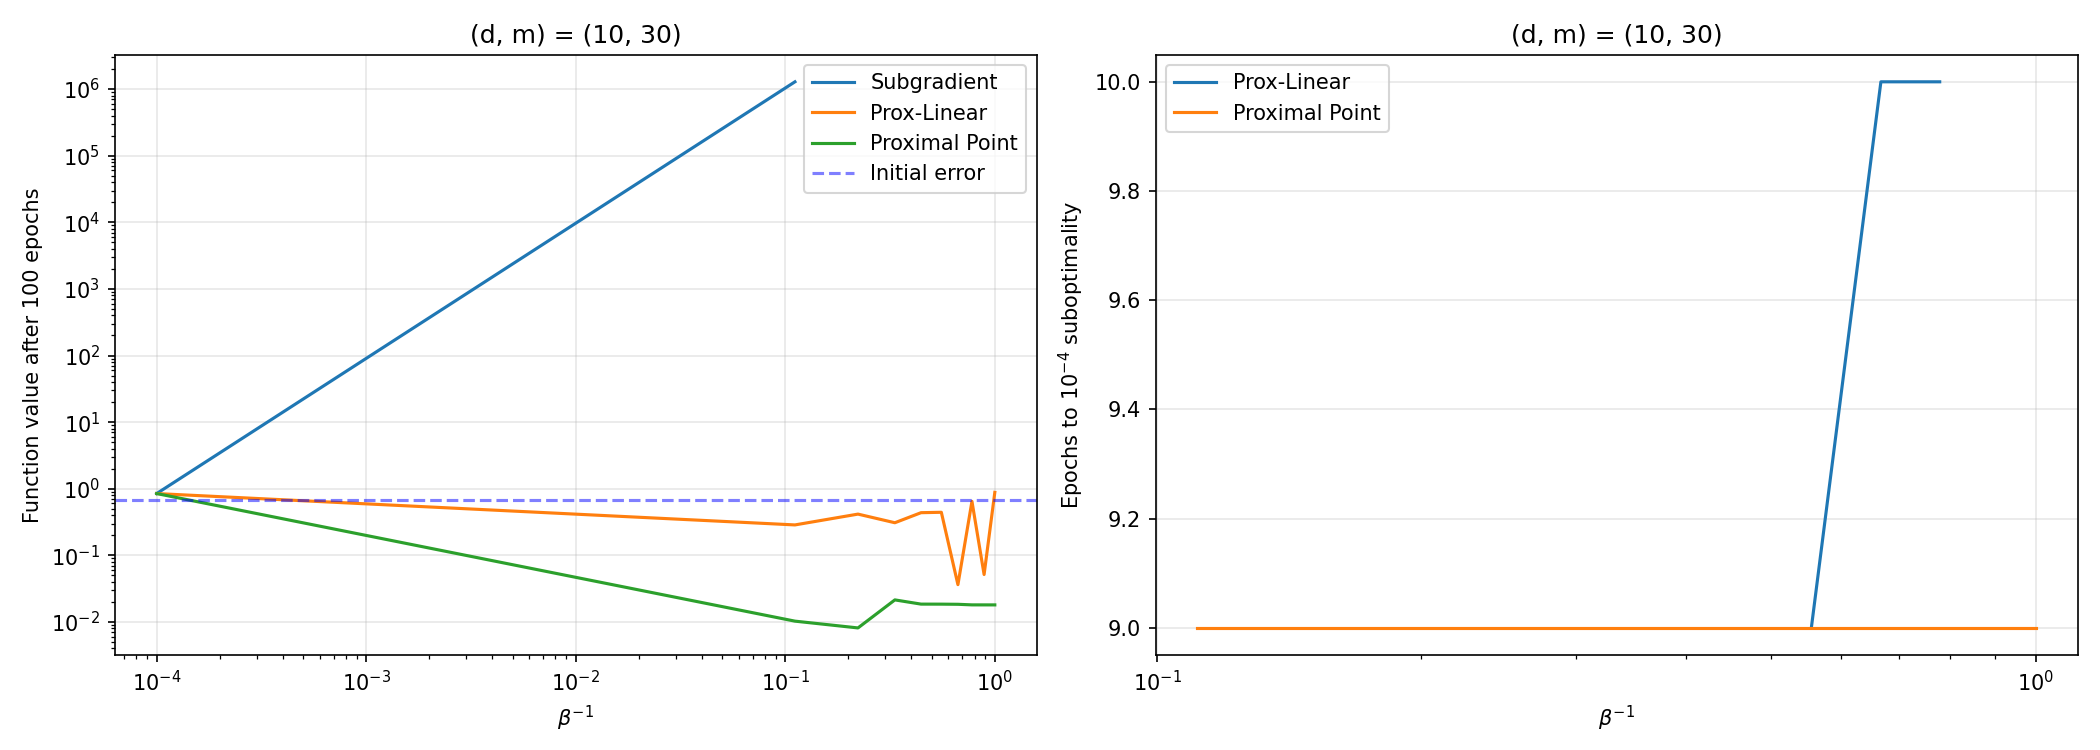
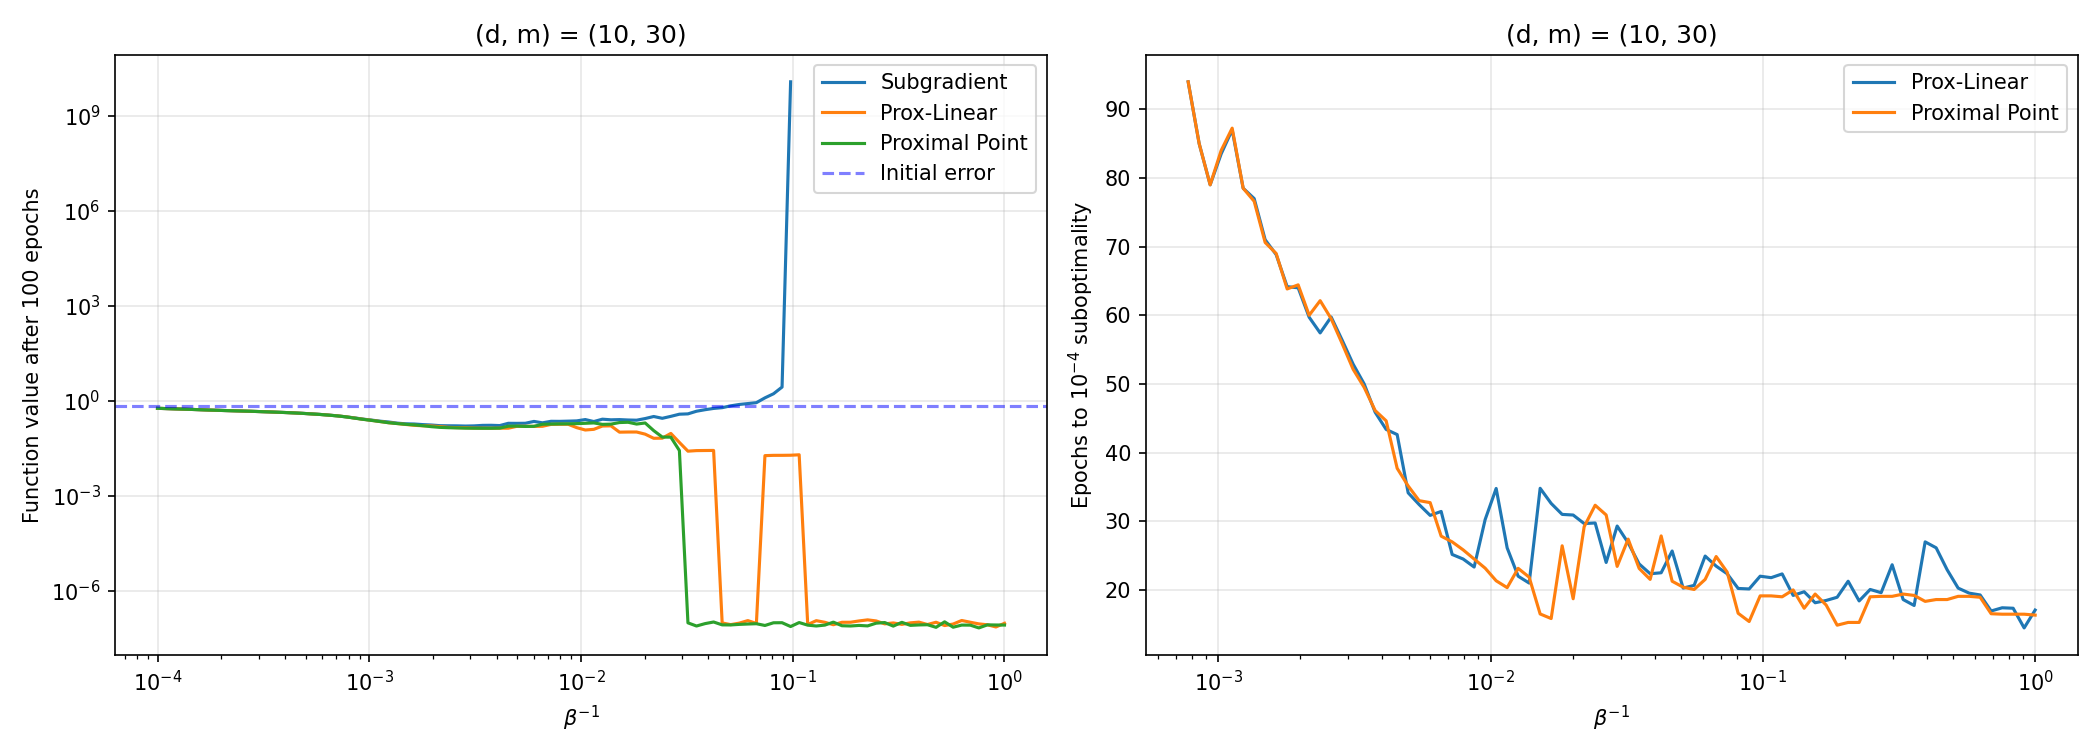
feat: add experiments for Moreau envelope gradient convergence and update beta scheduling

diff --git a/experiments/moreau_convergence.py b/experiments/moreau_convergence.py
@@ -1,0 +1,203 @@
+"""
+Experiment 4: Moreau Envelope Gradient Convergence
+
+Tracks ||∇φ_λ(x_t)|| over epochs for each of the three stochastic
+model-based methods on the phase retrieval problem.
+
+This demonstrates the paper's main convergence guarantee: the Moreau
+envelope gradient norm tends to zero, confirming that iterates approach
+near-stationarity (Theorems 4.2, 4.5, 4.8).
+"""
+
+import torch
+import numpy as np
+import matplotlib.pyplot as plt
+import os
+import sys
+
+sys.path.insert(0, os.path.join(os.path.dirname(__file__), ".."))
+
+from src.ModelBasedSolver import ModelBasedSolver
+from src.problems.phase_retrieval import (
+    SubgradientPhaseRetrieval,
+    ProxLinearPhaseRetrieval,
+    ProximalPointPhaseRetrieval,
+)
+
+
+def generate_phase_retrieval_data(d, m, seed=0):
+    torch.manual_seed(seed)
+    true_x = torch.randn(d)
+    true_x = true_x / torch.norm(true_x)
+    a_matrix = torch.randn(m, d)
+    b_vector = (a_matrix @ true_x) ** 2
+    population_data = torch.cat([a_matrix, b_vector.unsqueeze(1)], dim=1)
+    return population_data, true_x
+
+
+def run_single(prob, data, d, beta, n_epochs, m, moreau_epoch_interval, seed):
+    """Run one trial, tracking Moreau gradient norm at regular epoch intervals."""
+    torch.manual_seed(seed)
+    x_init = torch.randn(d)
+    x_init = x_init / torch.norm(x_init)
+
+    T = n_epochs * m
+    log_every = m  # log once per epoch
+    moreau_every = moreau_epoch_interval * m  # compute Moreau every N epochs
+
+    solver = ModelBasedSolver(
+        problem=prob,
+        data=data,
+        x_init=x_init,
+        T=T,
+        batch_size=1,
+        beta=beta,
+        log_every=log_every,
+        moreau_every=moreau_every,
+        verbose=False,
+    )
+    solver.run()
+
+    return solver.history
+
+
+def run_moreau_experiment(
+    d=50,
+    m=150,
+    beta_inv=0.1,
+    n_epochs=100,
+    moreau_epoch_interval=5,
+    n_rounds=5,
+    data_seed=42,
+):
+    """Run all 3 methods, averaging Moreau gradient norms over rounds."""
+    print(f"\n{'='*60}")
+    print(f"  Moreau Envelope Convergence: d={d}, m={m}, β⁻¹={beta_inv}")
+    print(
+        f"  {n_epochs} epochs, Moreau every {moreau_epoch_interval} epochs, {n_rounds} rounds"
+    )
+    print(f"{'='*60}")
+
+    data, true_x = generate_phase_retrieval_data(d, m, seed=data_seed)
+    beta = 1.0 / beta_inv
+
+    method_classes = {
+        "Subgradient": SubgradientPhaseRetrieval,
+        "Prox-Linear": ProxLinearPhaseRetrieval,
+        "Proximal Point": ProximalPointPhaseRetrieval,
+    }
+
+    results = {}
+
+    for name, cls in method_classes.items():
+        prob = cls(rho=2.0)
+        all_moreau = []
+        all_obj = []
+
+        for r in range(n_rounds):
+            history = run_single(
+                prob,
+                data,
+                d,
+                beta,
+                n_epochs,
+                m,
+                moreau_epoch_interval,
+                seed=r,
+            )
+            # moreau_grad_norms is list of (iteration, value) tuples
+            moreau_pairs = history["moreau_grad_norms"]
+            moreau_epochs = [it / m for it, _ in moreau_pairs]
+            moreau_vals = [val for _, val in moreau_pairs]
+            all_moreau.append(moreau_vals)
+
+            all_obj.append(history["obj_values"])
+            print(f"  {name} round {r+1}/{n_rounds} done")
+
+        # Average over rounds (trim to shortest)
+        min_len_m = min(len(x) for x in all_moreau)
+        avg_moreau = np.mean([x[:min_len_m] for x in all_moreau], axis=0)
+
+        min_len_o = min(len(x) for x in all_obj)
+        avg_obj = np.mean([x[:min_len_o] for x in all_obj], axis=0)
+
+        results[name] = {
+            "moreau_epochs": moreau_epochs[:min_len_m],
+            "moreau_vals": avg_moreau,
+            "obj_epochs": list(range(len(avg_obj))),
+            "obj_vals": avg_obj,
+        }
+
+    return results
+
+
+def plot_moreau_convergence(results, d, m, beta_inv, save_dir):
+    fig, (ax1, ax2) = plt.subplots(1, 2, figsize=(14, 5))
+
+    # Left: Moreau envelope gradient norm
+    for name, data in results.items():
+        ax1.plot(
+            data["moreau_epochs"],
+            data["moreau_vals"],
+            label=name,
+            linewidth=1.5,
+            marker="o",
+            markersize=3,
+        )
+
+    ax1.set_xlabel("Epoch")
+    ax1.set_ylabel(r"$\|\nabla \varphi_\lambda(x_t)\|$")
+    ax1.set_title(
+        f"Moreau envelope gradient — (d, m) = ({d}, {m}), "
+        r"$\beta^{-1}$" + f" = {beta_inv}"
+    )
+    ax1.set_yscale("log")
+    ax1.legend()
+    ax1.grid(True, alpha=0.3)
+
+    # Right: Objective value
+    for name, data in results.items():
+        ax2.plot(data["obj_epochs"], data["obj_vals"], label=name, linewidth=1.5)
+
+    ax2.set_xlabel("Epoch")
+    ax2.set_ylabel(r"$\varphi(x_t)$")
+    ax2.set_title(
+        f"Objective value — (d, m) = ({d}, {m}), " r"$\beta^{-1}$" + f" = {beta_inv}"
+    )
+    ax2.set_yscale("log")
+    ax2.legend()
+    ax2.grid(True, alpha=0.3)
+
+    plt.tight_layout()
+    os.makedirs(save_dir, exist_ok=True)
+    path = os.path.join(save_dir, f"moreau_convergence_d{d}_m{m}.png")
+    plt.savefig(path, dpi=150)
+    plt.close()
+    print(f"  Saved: {path}")
+
+
+def main():
+    save_dir = os.path.join(os.path.dirname(__file__), "..", "deliverables", "figures")
+
+    configs = [
+        {"d": 10, "m": 30, "beta_inv": 0.1},
+        {"d": 50, "m": 150, "beta_inv": 0.1},
+        {"d": 100, "m": 300, "beta_inv": 0.1},
+    ]
+
+    for cfg in configs:
+        results = run_moreau_experiment(
+            d=cfg["d"],
+            m=cfg["m"],
+            beta_inv=cfg["beta_inv"],
+            n_epochs=100,
+            moreau_epoch_interval=5,
+            n_rounds=5,
+        )
+        plot_moreau_convergence(results, cfg["d"], cfg["m"], cfg["beta_inv"], save_dir)
+
+    print("\nAll Moreau convergence experiments complete.")
+
+
+if __name__ == "__main__":
+    main()

diff --git a/experiments/blind_deconvolution.py b/experiments/blind_deconvolution.py
@@ -93,7 +93,7 @@ def run_config(d1, d2, m, n_stepsizes=100, n_epochs=100, n_rounds=15, data_seed=
     data, true_z = generate_blind_deconv_data(d1, d2, m, seed=data_seed)
     d_total = d1 + d2
 
-    inv_betas = np.linspace(1e-4, 1.0, n_stepsizes)
+    inv_betas = np.logspace(-4, 0, n_stepsizes)
     beta_values = 1.0 / inv_betas
 
     method_classes = {

diff --git a/experiments/phase_retrieval.py b/experiments/phase_retrieval.py
@@ -82,7 +82,7 @@ def run_config(d, m, n_stepsizes=100, n_epochs=100, n_rounds=15, data_seed=42):
 
     data, true_x = generate_phase_retrieval_data(d, m, seed=data_seed)
 
-    inv_betas = np.linspace(1e-4, 1.0, n_stepsizes)
+    inv_betas = np.logspace(-4, 0, n_stepsizes)
     beta_values = 1.0 / inv_betas
 
     method_classes = {

diff --git a/README.md b/README.md
@@ -39,3 +39,51 @@ Davis, D., & Drusvyatskiy, D. (2019). Stochastic model-based minimization of wea
 - `experiments/` – scripts for running experiments
 - `notebooks/` – exploratory analysis
 - `deliverables/` - presentations reports etc.
+
+## Running experiments
+
+All experiment scripts are in `experiments/`. Activate the conda environment first:
+
+```bash
+conda activate minimization-of-weakly-convex-functions
+```
+
+On macOS with Apple Silicon you may need to set `KMP_DUPLICATE_LIB_OK=TRUE` to avoid an OpenMP conflict.
+
+### Experiment 1 – Phase Retrieval (Figure 3)
+
+Compares three stochastic model-based methods (subgradient, prox-linear, proximal point)
+across 100 step-sizes on the phase retrieval problem. Configs: (d,m) = (10,30), (50,150), (100,300).
+
+```bash
+KMP_DUPLICATE_LIB_OK=TRUE python experiments/phase_retrieval.py
+```
+
+### Experiment 2 – Blind Deconvolution (Figure 4)
+
+Same comparison on the blind deconvolution problem.
+Configs: (d₁,d₂,m) = (10,10,30), (50,50,200), (100,100,400).
+
+```bash
+KMP_DUPLICATE_LIB_OK=TRUE python experiments/blind_deconvolution.py
+```
+
+### Experiment 3 – Optimizer Comparison
+
+Compares the three model-based methods against SGD, Adam, and AdaGrad on phase retrieval,
+showing step-size sensitivity.
+
+```bash
+KMP_DUPLICATE_LIB_OK=TRUE python experiments/optimizer_comparison.py
+```
+
+### Experiment 4 – Moreau Envelope Gradient Convergence
+
+Tracks ‖∇φ_λ(xₜ)‖ (Moreau envelope gradient norm) over epochs for each method,
+demonstrating the paper's main convergence guarantee.
+
+```bash
+KMP_DUPLICATE_LIB_OK=TRUE python experiments/moreau_convergence.py
+```
+
+All plots are saved to `deliverables/figures/`.